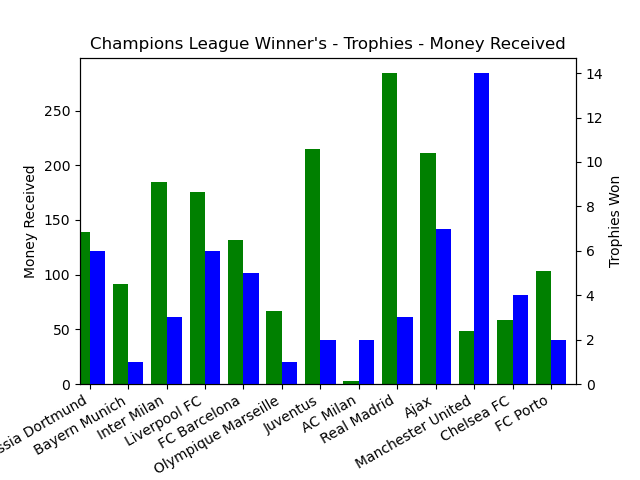
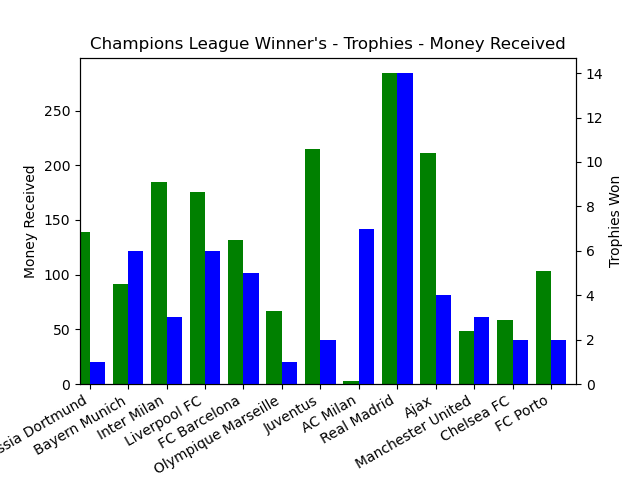
Fixed trophies plots

Changed region(s): [[0.5625, 0.1562, 0.8438, 0.7188], [0.125, 0.5, 0.25, 0.75]]

diff --git a/src/ch_league_process.py b/src/ch_league_process.py
@@ -57,9 +57,8 @@ class ChampionsDataProcess:
                         
                     money[index] = new_total
 
-        print(teams)
         data = dict(zip(teams, money))
-        #self.plotting_categorical(data, n, dinero)
+        #self.plotting_categorical(data, n, dinero) # All plots are correct and saved
 
     def plotting_categorical(self, data, n, dinero):
         names = list(data.keys())
@@ -67,17 +66,17 @@ class ChampionsDataProcess:
         
         if n == 0:
             trophies = [6, 1, 3, 6, 5, 1, 2, 2, 3, 7, 14, 4, 2]
-            if not dinero:
+            if not dinero: # Money Received
                 n = 2
+                trophies = [1, 6, 3, 6, 5, 1, 2, 7, 14, 4, 3, 2, 2]
             
         else:
-            trophies = [1,1,2,6,1,2,3,3,1,3,3,1,2,1,2,1,1,2,1]
+            trophies = [1,1,2, 6,1,2,3,3,1,3,3,1,2,1,2,1,1,2,1]
             if not dinero:
                 n = 3
+                trophies = [1,1,2, 2,6, 2, 3, 3,3 ,3,1 ,1 ,1 ,2,1 ,1,1,2,1]
         
     
-            
-            
         df = pd.DataFrame(list(zip(values, trophies)),
                columns =['Money', 'Trophies'])
         
@@ -105,6 +104,3 @@ class ChampionsDataProcess:
         fig_name = fig_names[n]
         plt.savefig(fig_name, format="PNG")
         plt.show()
-        
-        
-            

diff --git a/src/main.py b/src/main.py
@@ -80,7 +80,7 @@ def main():
     #ch_process.process_data(ch_winners, 0, False)
   
     eur_winners = win.europa_league(soccer_champ, europa_league_winners)
-    ch_process.process_data(eur_winners, 1, True)
+    #ch_process.process_data(eur_winners, 1, False)
 
 main()
 
